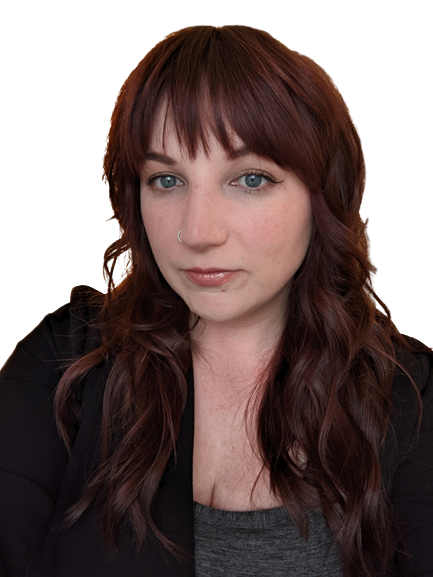
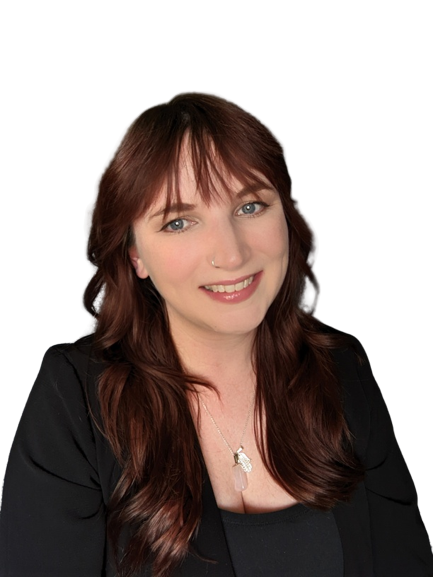
changed photos

diff --git a/index.html b/index.html
@@ -122,7 +122,7 @@
         165.547 130.807 187.559 100.226 186.353C69.6454 185.297 41.0228 161.023 21.7403
         129.362C2.45775 97.8511 -7.48481 59.1033 6.67581 34.5279C20.9871 10.1032 59.7028
         -0.149132 97.9666 0.00163737C136.23 0.303176 174.193 10.857 190.312 36.4879Z" />
-                <image class="home__blob-img" x="0" y="-12" xlink:href="./images/corri.png" />
+                <image class="home__blob-img" x="0" y="-40" xlink:href="./images/corri.png" />
               </g>
             </svg>
           </div>
@@ -157,7 +157,7 @@
       <span class="section__subtitle">My introduction</span>
 
       <div class="about__container container grid">
-        <img src="./images/corri2.png" alt="Corri" class="about__img" />
+        <img src="./images/corri2.jpg" alt="Corri" class="about__img" />
 
         <div class="about__data">
           <p class="about__description">
